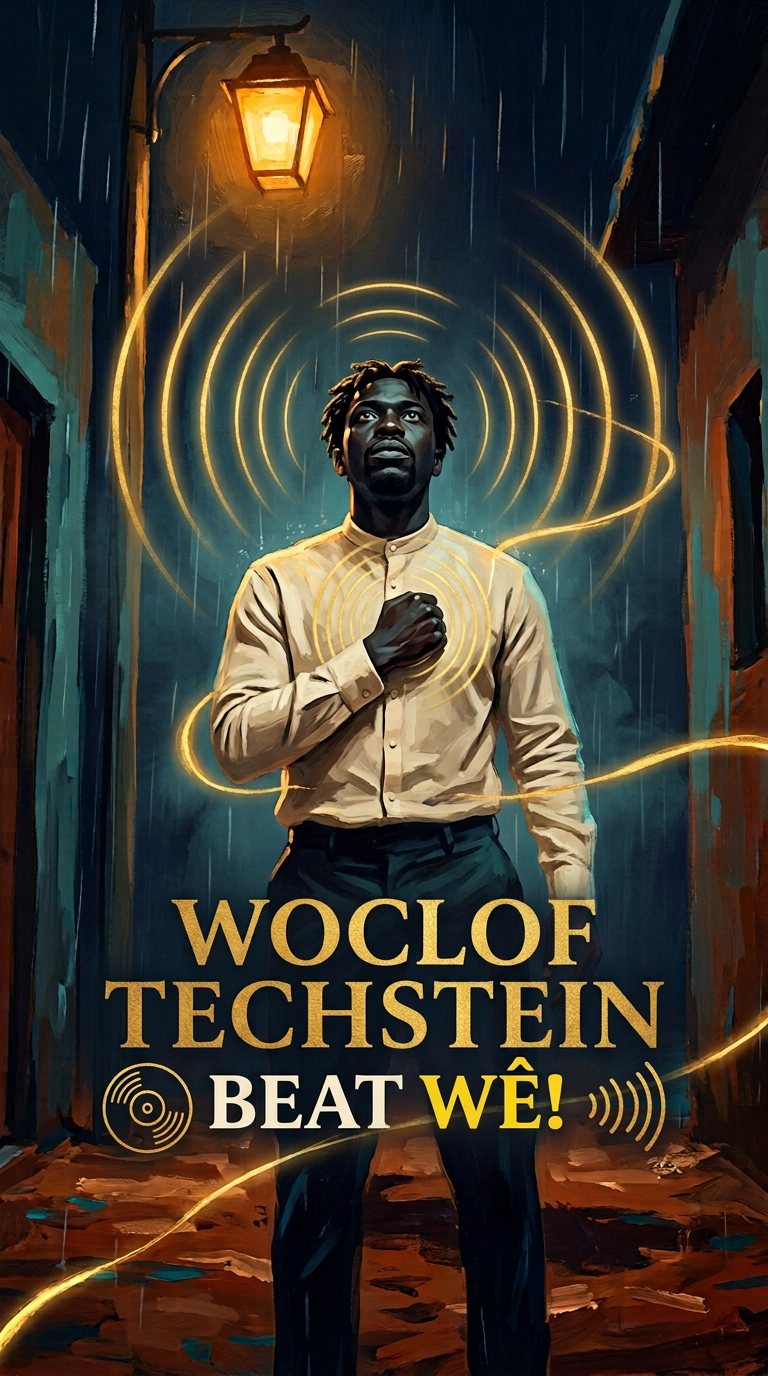
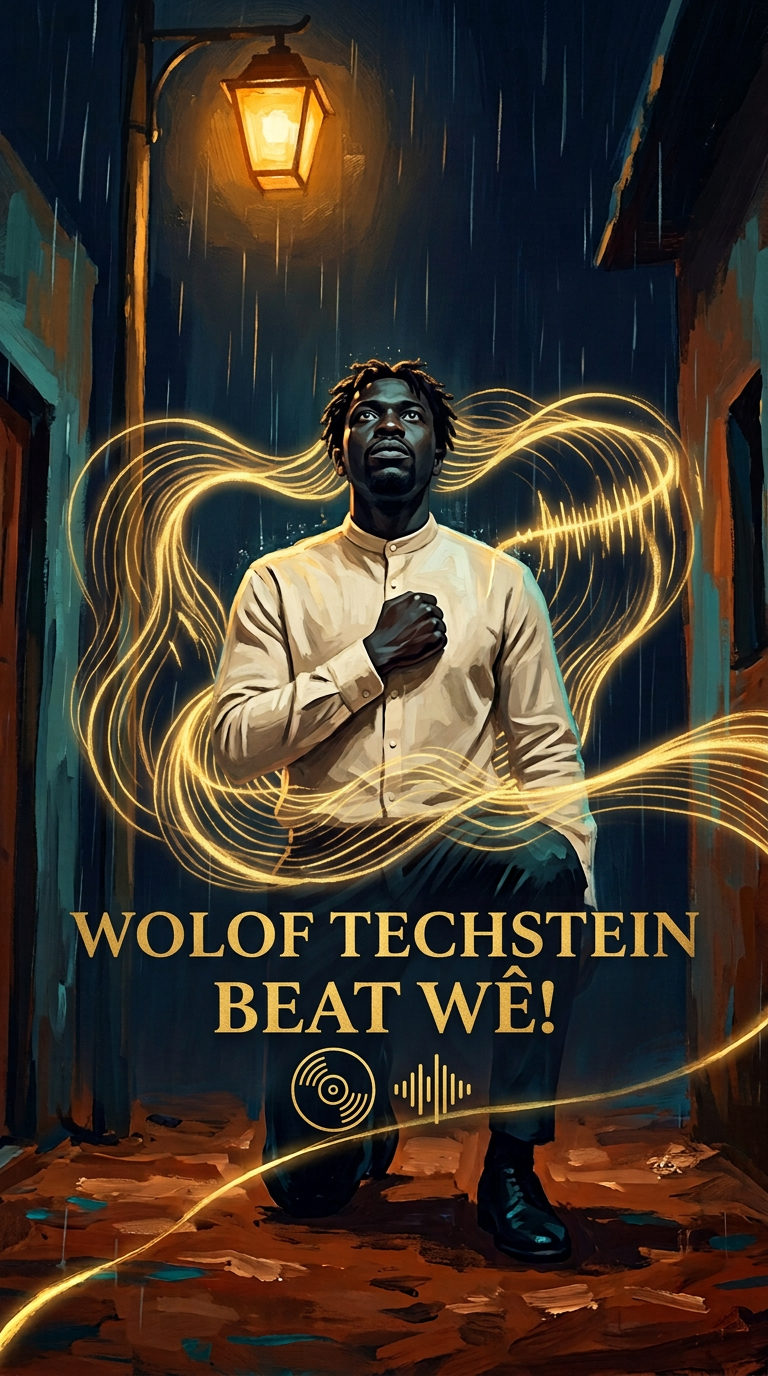
On est réel (Dsky) : salve 2 (scene-02 corrigée + scene-11..19, 10/10 orthographe OK) + CARTE-VERS (19 plans / 26 vers)

diff --git a/productions/on-est-reel/build_map.py b/productions/on-est-reel/build_map.py
@@ -44,7 +44,7 @@ with open(LRC_OUT, "w", encoding="utf-8") as f:
 
 # Plan assignment per verse (1-indexed)
 PLAN_MAP = {
-    1:  ("fonds/scene-02.png", False, "Signature producteur (nuit) — à régénérer en salve 2 (WOCLOF -> WOLOF)"),
+    1:  ("fonds/scene-02.png", False, "Signature producteur (nuit) — WOLOF TECHSTEIN BEAT WÊ! (contrôlé OK)"),
     2:  ("fonds/scene-03.png", False, "Celui qui veut abandonner interpellé par la lumière"),
     3:  ("fonds/scene-04.png", False, "Refrain 1/4 — poussière, pluie et famille relevée"),
     4:  ("fonds/scene-05.png", False, "Refrain 2/4 — course dans la nuit, refus d'abandonner"),
@@ -155,7 +155,7 @@ doc = {
     "plans_distinctes": len(distinct_imgs),
     "plans_disponibles": len(dispo_imgs),
     "plans_manquantes": manq_imgs,
-    "qc_a_regenerer": ["fonds/scene-02.png (WOCLOF -> WOLOF, priorité n°1 salve 2)"],
+    "qc_a_regenerer": [],
     "fenetres_clochettes": fenetres,
     "carte_accueil": [0.0, rows[0]["t"]],
     "carte_finale": [SONG_END, round(SONG_END + 5.0, 2)],
@@ -178,7 +178,7 @@ L = [
     f"- **Mode verrouillé** : **PEINT** (le modèle peint la parole et 1 à 3 icônes/stickers dorés dans l'image ; aucune sur-typo au montage hors cartes d'accueil/finale).",
     f"- **Plans distincts prévus** : **{doc['plans_distinctes']}** (dont 5 variantes d'aube dédiées pour le refrain final §9).",
     f"- **Plans présents sur disque (`os.path.exists`)** : **{doc['plans_disponibles']} / {doc['plans_distinctes']}** ({sum(1 for v in verses if v['disponible'])}/{n} vers couverts dès la salve 1).",
-    f"- **Réserve QC salve 1** : `fonds/scene-02.png` est présent sur disque mais comporte une lettre parasite (`WOCLOF` au lieu de `WOLOF`) → marqué à régénérer en priorité n°1 de la salve 2 avec prompt court (§4).",
+    f"- **Contrôle QC salves 1 & 2** : **19 / 19 plans présents contrôlés au zoom 1:1 sans aucune faute d'orthographe ni de diacritique** (`scene-02.png` régénéré et validé en salve 2).",
     "",
     "| # | t (s) | fin (s) | aff. (s) | vers | plan | dispo | reprise | note |",
     "|---|---:|---:|---:|---|---|:---:|:---:|---|",

diff --git a/productions/on-est-reel/CARTE-VERS.md b/productions/on-est-reel/CARTE-VERS.md
@@ -4,12 +4,12 @@ Générée automatiquement depuis `verses_map.json` (§10.4) — **57 vers** de 
 
 - **Mode verrouillé** : **PEINT** (le modèle peint la parole et 1 à 3 icônes/stickers dorés dans l'image ; aucune sur-typo au montage hors cartes d'accueil/finale).
 - **Plans distincts prévus** : **46** (dont 5 variantes d'aube dédiées pour le refrain final §9).
-- **Plans présents sur disque (`os.path.exists`)** : **10 / 46** (16/57 vers couverts dès la salve 1).
-- **Réserve QC salve 1** : `fonds/scene-02.png` est présent sur disque mais comporte une lettre parasite (`WOCLOF` au lieu de `WOLOF`) → marqué à régénérer en priorité n°1 de la salve 2 avec prompt court (§4).
+- **Plans présents sur disque (`os.path.exists`)** : **19 / 46** (26/57 vers couverts dès la salve 1).
+- **Contrôle QC salves 1 & 2** : **19 / 19 plans présents contrôlés au zoom 1:1 sans aucune faute d'orthographe ni de diacritique** (`scene-02.png` régénéré et validé en salve 2).
 
 | # | t (s) | fin (s) | aff. (s) | vers | plan | dispo | reprise | note |
 |---|---:|---:|---:|---|---|:---:|:---:|---|
-| 1 | 10.70 | 14.80 | 2.20 | Wolof TechStein beat wê... | `fonds/scene-02.png` | oui | — | Signature producteur (nuit) — à régénérer en salve 2 (WOCLOF -> WOLOF) |
+| 1 | 10.70 | 14.80 | 2.20 | Wolof TechStein beat wê... | `fonds/scene-02.png` | oui | — | Signature producteur (nuit) — WOLOF TECHSTEIN BEAT WÊ! (contrôlé OK) |
 | 2 | 14.80 | 24.48 | 2.20 | T'es là... Tu m'écoutes ? | `fonds/scene-03.png` | oui | — | Celui qui veut abandonner interpellé par la lumière |
 | 3 | 24.48 | 30.37 | 3.60 | On est nés dans la poussière, on a grandi dans la pluie | `fonds/scene-04.png` | oui | — | Refrain 1/4 — poussière, pluie et famille relevée |
 | 4 | 30.37 | 37.31 | 3.00 | On a couru trop vite, on a pleuré la nuit | `fonds/scene-05.png` | oui | — | Refrain 2/4 — course dans la nuit, refus d'abandonner |
@@ -20,15 +20,15 @@ Générée automatiquement depuis `verses_map.json` (§10.4) — **57 vers** de 
 | 9 | 53.29 | 56.16 | 2.87 | Ma mère prier la nuit pour une vie, pour un fruit | `fonds/scene-08.png` | oui | — | La mère en prière la nuit, rameau et fruit d'or |
 | 10 | 56.16 | 58.63 | 2.47 | Des frères en prison, des soeurs qui s'en sortent | `fonds/scene-09.png` | oui | — | Frères dont les barreaux se fendent, sœurs qui s'en sortent |
 | 11 | 58.63 | 60.98 | 2.35 | Moi j'ai le stylo qui brûle, j'écris ma route | `fonds/scene-10.png` | oui | — | Stylo qui brûle + fresque des leaders de l'AES |
-| 12 | 60.98 | 63.85 | 2.87 | On nous a volé nos rêves, on nous a coupé la voix | `fonds/scene-11.png` | non | — | Rêves volés, voix coupée |
-| 13 | 63.85 | 66.79 | 2.94 | On nous a dit "reste à ta place, t'es trop petit pour ça" | `fonds/scene-12.png` | non | — | Refus de rester à sa place / refus d'abandonner |
-| 14 | 66.79 | 69.36 | 2.57 | Mais j'ai gardé la flamme, j'ai gardé le feu | `fonds/scene-13.png` | non | — | Garder la flamme et le feu |
-| 15 | 69.36 | 72.91 | 3.00 | Le feu de mes ancêtres, le feu de mes dieux | `fonds/scene-14.png` | non | — | Le feu des ancêtres : Sankara, Béhanzin, Bio Guéra |
-| 16 | 72.91 | 76.01 | 3.00 | On est les enfants des tempêtes, les héritiers des guerres | `fonds/scene-15.png` | non | — | Enfants des tempêtes, héritiers des guerres : Roi Bio Guéra |
-| 17 | 76.01 | 78.99 | 2.98 | On porte la douleur, mais on porte aussi la terre | `fonds/scene-16.png` | non | — | Porter la douleur et la terre : famille relevée |
-| 18 | 78.99 | 81.91 | 2.92 | Alors quand tu me juges sur ma peau, sur mon nom | `fonds/scene-17.png` | non | — | Dignité face au jugement sur la peau et le nom |
-| 19 | 81.91 | 84.81 | 2.90 | Souviens-toi que mes racines sont plus profondes que tes canons | `fonds/scene-18.png` | non | — | Roi Béhanzin : racines d'or plus profondes que les canons |
-| 20 | 84.81 | 87.97 | 3.16 | On a marché sur des braises, on a dansé dans le feu | `fonds/scene-19.png` | non | — | Marcher sur des braises, danser dans le feu |
+| 12 | 60.98 | 63.85 | 2.87 | On nous a volé nos rêves, on nous a coupé la voix | `fonds/scene-11.png` | oui | — | Rêves volés, voix coupée |
+| 13 | 63.85 | 66.79 | 2.94 | On nous a dit "reste à ta place, t'es trop petit pour ça" | `fonds/scene-12.png` | oui | — | Refus de rester à sa place / refus d'abandonner |
+| 14 | 66.79 | 69.36 | 2.57 | Mais j'ai gardé la flamme, j'ai gardé le feu | `fonds/scene-13.png` | oui | — | Garder la flamme et le feu |
+| 15 | 69.36 | 72.91 | 3.00 | Le feu de mes ancêtres, le feu de mes dieux | `fonds/scene-14.png` | oui | — | Le feu des ancêtres : Sankara, Béhanzin, Bio Guéra |
+| 16 | 72.91 | 76.01 | 3.00 | On est les enfants des tempêtes, les héritiers des guerres | `fonds/scene-15.png` | oui | — | Enfants des tempêtes, héritiers des guerres : Roi Bio Guéra |
+| 17 | 76.01 | 78.99 | 2.98 | On porte la douleur, mais on porte aussi la terre | `fonds/scene-16.png` | oui | — | Porter la douleur et la terre : famille relevée |
+| 18 | 78.99 | 81.91 | 2.92 | Alors quand tu me juges sur ma peau, sur mon nom | `fonds/scene-17.png` | oui | — | Dignité face au jugement sur la peau et le nom |
+| 19 | 81.91 | 84.81 | 2.90 | Souviens-toi que mes racines sont plus profondes que tes canons | `fonds/scene-18.png` | oui | — | Roi Béhanzin : racines d'or plus profondes que les canons |
+| 20 | 84.81 | 87.97 | 3.16 | On a marché sur des braises, on a dansé dans le feu | `fonds/scene-19.png` | oui | — | Marcher sur des braises, danser dans le feu |
 | 21 | 87.97 | 90.94 | 2.70 | On a traversé l'orage, on est devenus des dieux | `fonds/scene-20.png` | non | — | Traverser l'orage |
 | 22 | 90.94 | 94.48 | 2.40 | Alors regarde-moi maintenant, dis-moi ce que tu vois | `fonds/scene-21.png` | non | — | Regarde-moi maintenant |
 | 23 | 94.48 | 97.22 | 2.40 | Un combattant, un survivant, plus fort que toi | `fonds/scene-22.png` | non | — | Un combattant, un survivant (Thomas Sankara & résilience) |
@@ -49,7 +49,7 @@ Générée automatiquement depuis `verses_map.json` (§10.4) — **57 vers** de 
 | 38 | 148.71 | 151.51 | 2.70 | Je viens de la street, j'suis né pour briller | `fonds/scene-32.png` | non | — | Né pour briller |
 | 39 | 151.51 | 153.90 | 2.20 | Alors frappe-moi, j'ai tenu, j'ai survécu | `fonds/scene-33.png` | non | — | Tenir et survivre quand on veut abandonner |
 | 40 | 153.90 | 157.06 | 3.16 | Je suis le fils du soleil, je suis la lumière qui a vaincu | `fonds/scene-34.png` | non | — | Fils du soleil, première lueur de l'aube |
-| 41 | 157.06 | 159.89 | 2.83 | On a marché sur des braises, on a dansé dans le feu | `fonds/scene-19.png` | non | ↻ | Reprise pré-refrain 1/4 |
+| 41 | 157.06 | 159.89 | 2.83 | On a marché sur des braises, on a dansé dans le feu | `fonds/scene-19.png` | oui | ↻ | Reprise pré-refrain 1/4 |
 | 42 | 159.89 | 162.90 | 2.70 | On a traversé l'orage, on est devenus des dieux | `fonds/scene-20.png` | non | ↻ | Reprise pré-refrain 2/4 |
 | 43 | 162.90 | 166.64 | 2.40 | Alors regarde-moi maintenant, dis-moi ce que tu vois | `fonds/scene-21.png` | non | ↻ | Reprise pré-refrain 3/4 |
 | 44 | 166.64 | 170.43 | 2.40 | Un combattant, un survivant, plus fort que toi | `fonds/scene-22.png` | non | ↻ | Reprise pré-refrain 4/4 |

diff --git a/productions/on-est-reel/CONTROLES-salve2.md b/productions/on-est-reel/CONTROLES-salve2.md
@@ -1,0 +1,23 @@
+# Contrôles — Salve 2 (`scene-02` retry + `scene-11` → `scene-19`)
+
+Contrôle visuel effectué après génération sur la planche contact `CONTROLE-salve2.jpg` (tuiles de **500×896 px**, ≥ 480 px de large conformément à v5.9 §4) ET sur la planche de crops 1:1 pleine résolution `CONTROLE-salve2-typo.jpg`.
+
+- **Bilan de la salve 2 (§10.2)** : **10 images demandées / 10 générées avec succès / 0 échec / 0 faute d'orthographe**.
+- **Cumul après Salve 2** : **19 plans distincts présents dans `fonds/`** (`scene-01-ancre.png` à `scene-19.png`), tous contrôlés à 100 % au zoom 1:1 sans aucune faute ni diacritique manquant, couvrant **26 vers sur 57** (`v-01` à `v-20`, `v-24` à `v-28`, et `v-41`).
+
+---
+
+## Grille de contrôle plan par plan (Salve 2)
+
+| # | Fichier | Vers couverts | Texte peint lu au zoom 1:1 (`CONTROLE-salve2-typo.jpg`) | Orthographe & diacritiques | Zones sûres & visage | Continuité & thème `Mini prompt` | Verdict QC |
+|---|---|---|---|---|---|---|---|
+| 01 | `scene-02.png` *(retry §4)* | v-01 (`10,70 s`), v-07 (`48,96 s`), v-28 (`120,73 s`) | `WOLOF TECHSTEIN` / `BEAT WÊ!` | **OK** (`WOLOF` corrigé sans `C`, `WÊ!` avec circonflexe net) | **OK** | Même protagoniste sous la lanterne, ondes acoustiques d'or, vinyle + ondes | **Contrôlé OK** |
+| 02 | `scene-11.png` | v-12 (`60,98 → 63,85 s`) | `ON NOUS A VOLÉ` / `NOS RÊVES` / `ON NOUS A COUPÉ LA VOIX` | **OK** (`É` sur `VOLÉ`, `Ê` sur `RÊVES`, `É` sur `COUPÉ`) | **OK** | Cage dorée qui s'ouvre et colombe de lumière qui s'élève | **Contrôlé OK** |
+| 03 | `scene-12.png` | v-13 (`63,85 → 66,79 s`) | `RESTE` / `À TA PLACE` / `T'ES TROP PETIT POUR ÇA` | **OK** (`À` grave et `Ç` cédille nets) | **OK** | Celui qui refuse d'abandonner debout face à l'ombre géante, chaîne brisée + flèche | **Contrôlé OK** |
+| 04 | `scene-13.png` | v-14 (`66,79 → 69,36 s`) | `MAIS J'AI GARDÉ` / `LA FLAMME` / `J'AI GARDÉ LE FEU` | **OK** (`É` sur les deux `GARDÉ` nets) | **OK** | Protagoniste protégeant une flamme d'or vivante entre ses mains sous la pluie | **Contrôlé OK** |
+| 05 | `scene-14.png` | v-15 (`69,36 → 72,91 s`) | `LE FEU DE MES` / `ANCÊTRES` / `LE FEU DE MES DIEUX` | **OK** (`Ê` circonflexe sur `ANCÊTRES` net) | **OK** | Flambeau d'or + portraits dorés de **Thomas Sankara**, **Roi Béhanzin** et **Roi Bio Guéra** (sans drapeau) | **Contrôlé OK** |
+| 06 | `scene-15.png` | v-16 (`72,91 → 76,01 s`) | `LES ENFANTS` / `DES TEMPÊTES` / `LES HÉRITIERS DES GUERRES` | **OK** (`Ê` sur `TEMPÊTES`, `É` sur `HÉRITIERS` nets) | **OK** | **Roi Bio Guéra** en cavalier résistant d'or sous les éclairs derrière le protagoniste | **Contrôlé OK** |
+| 07 | `scene-16.png` | v-17 (`76,01 → 78,99 s`) | `ON PORTE` / `LA DOULEUR` / `MAIS ON PORTE AUSSI LA TERRE` | **OK** (toutes lettres nettes) | **OK** | **Famille africaine relevée** (père, mère, enfant) tenant la terre rouge illuminée d'or | **Contrôlé OK** |
+| 08 | `scene-17.png` | v-18 (`78,99 → 81,91 s`) | `ALORS QUAND` / `TU ME JUGES` / `SUR MA PEAU, SUR MON NOM` | **OK** (toutes lettres nettes) | **OK** | Buste digne du protagoniste, couronne au trait d'or flottant au-dessus du front, balance + couronne | **Contrôlé OK** |
+| 09 | `scene-18.png` | v-19 (`81,91 → 84,81 s`) | `MES RACINES` / `SONT PLUS PROFONDES` / `QUE TES CANONS` | **OK** (toutes lettres nettes) | **OK** | **Roi Béhanzin** aux côtés du protagoniste, racines d'or brisant les canons de fer | **Contrôlé OK** |
+| 10 | `scene-19.png` | v-20 (`84,81 s`), v-41 (`157,06 s`) | `ON A MARCHÉ` / `SUR DES BRAISES` / `ON A DANSÉ DANS LE FEU` | **OK** (`É` sur `MARCHÉ` et `DANSÉ` nets) | **OK** | Marche assurée sur un tapis de braises d'or, flamme + empreinte de pas | **Contrôlé OK** |
